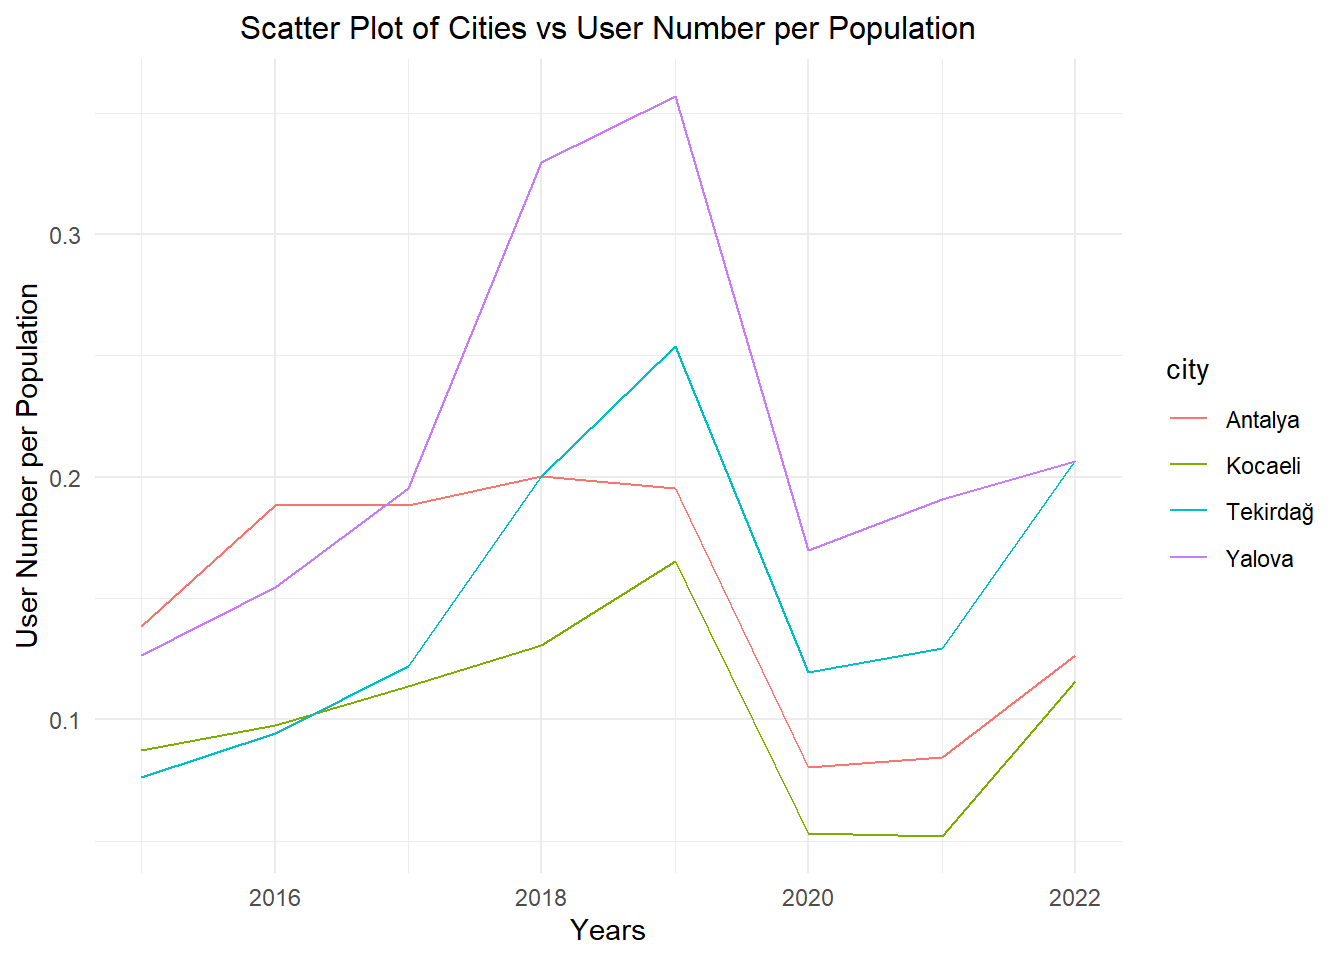
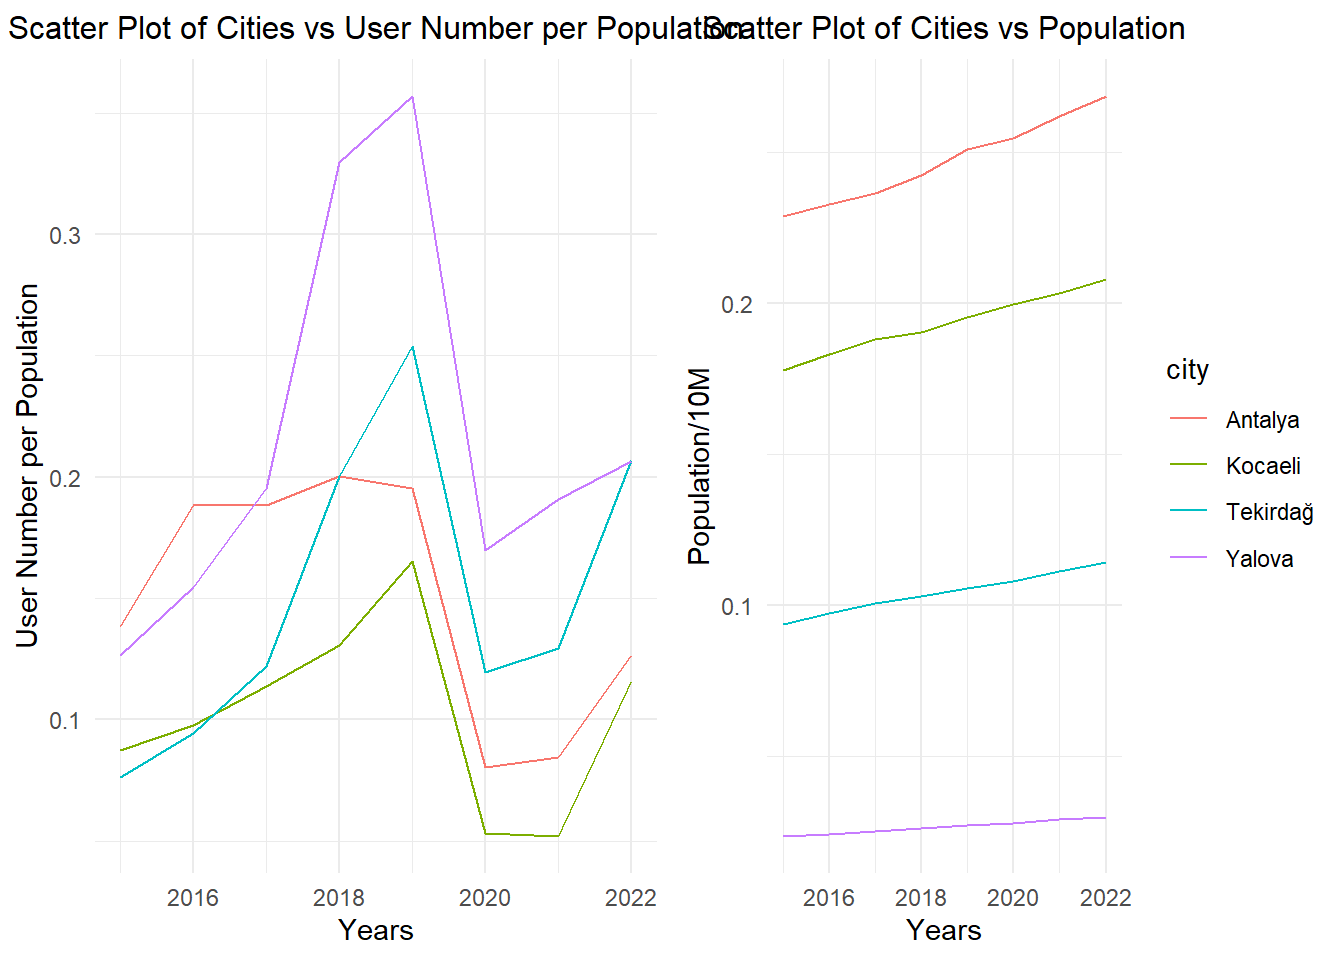
bişiler

diff --git a/docs/analysis.html b/docs/analysis.html
@@ -146,13 +146,14 @@ pre > code.sourceCode > span > a:first-child::before { text-decoration: underlin
     <h2 id="toc-title">On this page</h2>
    
   <ul>
-  <li><a href="#correlation-between-variables" id="toc-correlation-between-variables" class="nav-link active" data-scroll-target="#correlation-between-variables">1) Correlation between variables</a></li>
-  <li><a href="#relationship-between-attributes" id="toc-relationship-between-attributes" class="nav-link" data-scroll-target="#relationship-between-attributes">2) Relationship between attributes</a>
+  <li><a href="#correlation-between-attributes" id="toc-correlation-between-attributes" class="nav-link active" data-scroll-target="#correlation-between-attributes">1) Correlation Between Attributes</a></li>
+  <li><a href="#relationship-between-attributes" id="toc-relationship-between-attributes" class="nav-link" data-scroll-target="#relationship-between-attributes">2) Relationship Between Attributes</a>
   <ul class="collapse">
   <li><a href="#section" id="toc-section" class="nav-link" data-scroll-target="#section">2.1)</a></li>
   <li><a href="#section-1" id="toc-section-1" class="nav-link" data-scroll-target="#section-1">2.2)</a></li>
   <li><a href="#section-2" id="toc-section-2" class="nav-link" data-scroll-target="#section-2">2.3)</a></li>
   <li><a href="#the-number-of-historical-remnants-in-cities-in-turkiye" id="toc-the-number-of-historical-remnants-in-cities-in-turkiye" class="nav-link" data-scroll-target="#the-number-of-historical-remnants-in-cities-in-turkiye">3) The number of historical remnants in cities in Turkiye</a></li>
+  <li><a href="#regional-analysis" id="toc-regional-analysis" class="nav-link" data-scroll-target="#regional-analysis">3) Regional Analysis</a></li>
   </ul></li>
   </ul>
 </nav>
@@ -190,7 +191,8 @@ pre > code.sourceCode > span > a:first-child::before { text-decoration: underlin
 <span id="cb1-4"><a href="#cb1-4" aria-hidden="true" tabindex="-1"></a><span class="fu">library</span>(dplyr)</span>
 <span id="cb1-5"><a href="#cb1-5" aria-hidden="true" tabindex="-1"></a><span class="fu">library</span>(knitr)</span>
 <span id="cb1-6"><a href="#cb1-6" aria-hidden="true" tabindex="-1"></a><span class="fu">library</span>(ggrepel)</span>
-<span id="cb1-7"><a href="#cb1-7" aria-hidden="true" tabindex="-1"></a><span class="fu">library</span>(reshape2)</span></code><button title="Copy to Clipboard" class="code-copy-button"><i class="bi"></i></button></pre></div>
+<span id="cb1-7"><a href="#cb1-7" aria-hidden="true" tabindex="-1"></a><span class="fu">library</span>(reshape2)</span>
+<span id="cb1-8"><a href="#cb1-8" aria-hidden="true" tabindex="-1"></a><span class="fu">library</span>(gridExtra)</span></code><button title="Copy to Clipboard" class="code-copy-button"><i class="bi"></i></button></pre></div>
 </details>
 <p>Load the data:</p>
 <details>
@@ -198,8 +200,8 @@ pre > code.sourceCode > span > a:first-child::before { text-decoration: underlin
 <div class="sourceCode cell-code" id="cb2"><pre class="sourceCode r code-with-copy"><code class="sourceCode r"><span id="cb2-1"><a href="#cb2-1" aria-hidden="true" tabindex="-1"></a><span class="fu">load</span>(<span class="st">"library_museum_updated.RData"</span>)</span>
 <span id="cb2-2"><a href="#cb2-2" aria-hidden="true" tabindex="-1"></a>data <span class="ot">&lt;-</span>library_museum_updated</span></code><button title="Copy to Clipboard" class="code-copy-button"><i class="bi"></i></button></pre></div>
 </details>
-<section id="correlation-between-variables" class="level2">
-<h2 class="anchored" data-anchor-id="correlation-between-variables">1) Correlation between variables</h2>
+<section id="correlation-between-attributes" class="level2">
+<h2 class="anchored" data-anchor-id="correlation-between-attributes">1) Correlation Between Attributes</h2>
 <details>
 <summary>Show the code</summary>
 <div class="sourceCode cell-code" id="cb3"><pre class="sourceCode r code-with-copy"><code class="sourceCode r"><span id="cb3-1"><a href="#cb3-1" aria-hidden="true" tabindex="-1"></a>correlation_matrix <span class="ot">&lt;-</span> <span class="fu">cor</span>(library_museum_updated[, <span class="fu">c</span>(<span class="dv">3</span><span class="sc">:</span><span class="dv">21</span>)], <span class="at">use =</span> <span class="st">"complete.obs"</span>)</span>
@@ -216,7 +218,7 @@ pre > code.sourceCode > span > a:first-child::before { text-decoration: underlin
 <p>In the areas where the squares are dark red, there is a positive correlation between the variables. In cities with a high population, the number of museums, libraries, theater and cinema audience numbers, and the number of suicides are also high. Conversely, when the number of pieces in a museum is high, it is observed that the number of museums, libraries, audience numbers of theaters and cinemas are also high. The variables intersecting in dark blue-purple squares, on the other hand, have a negative correlation. That is, there is an inverse relationship between the proportion of the young population and the literacy rate.</p>
 </section>
 <section id="relationship-between-attributes" class="level2">
-<h2 class="anchored" data-anchor-id="relationship-between-attributes">2) Relationship between attributes</h2>
+<h2 class="anchored" data-anchor-id="relationship-between-attributes">2) Relationship Between Attributes</h2>
 <section id="section" class="level3">
 <h3 class="anchored" data-anchor-id="section">2.1)</h3>
 <div class="cell">
@@ -404,14 +406,23 @@ pre > code.sourceCode > span > a:first-child::before { text-decoration: underlin
 <div class="cell">
 <details>
 <summary>Show the code</summary>
-<div class="sourceCode cell-code" id="cb17"><pre class="sourceCode r code-with-copy"><code class="sourceCode r"><span id="cb17-1"><a href="#cb17-1" aria-hidden="true" tabindex="-1"></a>data <span class="sc">%&gt;%</span> </span>
+<div class="sourceCode cell-code" id="cb17"><pre class="sourceCode r code-with-copy"><code class="sourceCode r"><span id="cb17-1"><a href="#cb17-1" aria-hidden="true" tabindex="-1"></a>p1 <span class="ot">&lt;-</span> data <span class="sc">%&gt;%</span> </span>
 <span id="cb17-2"><a href="#cb17-2" aria-hidden="true" tabindex="-1"></a>  <span class="fu">filter</span>(city <span class="sc">%in%</span> <span class="fu">c</span>(<span class="st">"Yalova"</span>,<span class="st">"Tekirdağ"</span>,<span class="st">"Antalya"</span>,<span class="st">"Kocaeli"</span>)) <span class="sc">%&gt;%</span> <span class="fu">mutate</span>(<span class="at">user_num_per_pop=</span>(user_num<span class="sc">/</span>population)) <span class="sc">%&gt;%</span></span>
 <span id="cb17-3"><a href="#cb17-3" aria-hidden="true" tabindex="-1"></a>  <span class="fu">ggplot</span>(<span class="fu">aes</span>(<span class="at">x =</span> year, <span class="at">y =</span> user_num_per_pop, <span class="at">color =</span> city)) <span class="sc">+</span></span>
 <span id="cb17-4"><a href="#cb17-4" aria-hidden="true" tabindex="-1"></a>  <span class="fu">geom_line</span>() <span class="sc">+</span>  </span>
 <span id="cb17-5"><a href="#cb17-5" aria-hidden="true" tabindex="-1"></a>  <span class="fu">labs</span>(<span class="at">x =</span> <span class="st">"Years"</span>, <span class="at">y =</span> <span class="st">"User Number per Population"</span>) <span class="sc">+</span> </span>
 <span id="cb17-6"><a href="#cb17-6" aria-hidden="true" tabindex="-1"></a>  <span class="fu">ggtitle</span>(<span class="st">"Scatter Plot of Cities vs User Number per Population"</span>) <span class="sc">+</span></span>
 <span id="cb17-7"><a href="#cb17-7" aria-hidden="true" tabindex="-1"></a>  <span class="fu">theme_minimal</span>() <span class="sc">+</span></span>
-<span id="cb17-8"><a href="#cb17-8" aria-hidden="true" tabindex="-1"></a>  <span class="fu">theme</span>(<span class="at">plot.title =</span> <span class="fu">element_text</span>(<span class="at">size =</span> <span class="dv">12</span>, <span class="at">hjust =</span> <span class="fl">0.5</span>))</span></code><button title="Copy to Clipboard" class="code-copy-button"><i class="bi"></i></button></pre></div>
+<span id="cb17-8"><a href="#cb17-8" aria-hidden="true" tabindex="-1"></a>  <span class="fu">theme</span>(<span class="at">plot.title =</span> <span class="fu">element_text</span>(<span class="at">size =</span> <span class="dv">12</span>, <span class="at">hjust =</span> <span class="fl">0.5</span>),<span class="at">legend.position =</span> <span class="st">"none"</span>) </span>
+<span id="cb17-9"><a href="#cb17-9" aria-hidden="true" tabindex="-1"></a>p2 <span class="ot">&lt;-</span> data <span class="sc">%&gt;%</span> </span>
+<span id="cb17-10"><a href="#cb17-10" aria-hidden="true" tabindex="-1"></a>  <span class="fu">filter</span>(city <span class="sc">%in%</span> <span class="fu">c</span>(<span class="st">"Yalova"</span>,<span class="st">"Tekirdağ"</span>,<span class="st">"Antalya"</span>,<span class="st">"Kocaeli"</span>)) <span class="sc">%&gt;%</span></span>
+<span id="cb17-11"><a href="#cb17-11" aria-hidden="true" tabindex="-1"></a>  <span class="fu">ggplot</span>(<span class="fu">aes</span>(<span class="at">x =</span> year, <span class="at">y =</span> population<span class="sc">/</span><span class="dv">10000000</span>, <span class="at">color =</span> city)) <span class="sc">+</span></span>
+<span id="cb17-12"><a href="#cb17-12" aria-hidden="true" tabindex="-1"></a>  <span class="fu">geom_line</span>() <span class="sc">+</span>  </span>
+<span id="cb17-13"><a href="#cb17-13" aria-hidden="true" tabindex="-1"></a>  <span class="fu">labs</span>(<span class="at">x =</span> <span class="st">"Years"</span>, <span class="at">y =</span> <span class="st">"Population/10M"</span>) <span class="sc">+</span> </span>
+<span id="cb17-14"><a href="#cb17-14" aria-hidden="true" tabindex="-1"></a>  <span class="fu">ggtitle</span>(<span class="st">"Scatter Plot of Cities vs Population"</span>) <span class="sc">+</span></span>
+<span id="cb17-15"><a href="#cb17-15" aria-hidden="true" tabindex="-1"></a>  <span class="fu">theme_minimal</span>() <span class="sc">+</span></span>
+<span id="cb17-16"><a href="#cb17-16" aria-hidden="true" tabindex="-1"></a>  <span class="fu">theme</span>(<span class="at">plot.title =</span> <span class="fu">element_text</span>(<span class="at">size =</span> <span class="dv">12</span>, <span class="at">hjust =</span> <span class="fl">0.5</span>))</span>
+<span id="cb17-17"><a href="#cb17-17" aria-hidden="true" tabindex="-1"></a><span class="fu">grid.arrange</span>(p1, p2, <span class="at">ncol =</span> <span class="dv">2</span>)</span></code><button title="Copy to Clipboard" class="code-copy-button"><i class="bi"></i></button></pre></div>
 </details>
 <div class="cell-output-display">
 <p><img src="analysis_files/figure-html/unnamed-chunk-14-1.png" class="img-fluid" width="672"></p>
@@ -539,6 +550,44 @@ pre > code.sourceCode > span > a:first-child::before { text-decoration: underlin
 <div class="cell-output-display">
 <p><img src="analysis_files/figure-html/unnamed-chunk-18-1.png" class="img-fluid" width="672"></p>
 </div>
+</div>
+</section>
+<section id="regional-analysis" class="level3">
+<h3 class="anchored" data-anchor-id="regional-analysis">3) Regional Analysis</h3>
+<p>For regional analysis, ‘region’ column will first be added to the data.</p>
+<div class="cell">
+<details>
+<summary>Show the code</summary>
+<div class="sourceCode cell-code" id="cb22"><pre class="sourceCode r code-with-copy"><code class="sourceCode r"><span id="cb22-1"><a href="#cb22-1" aria-hidden="true" tabindex="-1"></a>akdeniz <span class="ot">&lt;-</span> <span class="fu">c</span>(<span class="st">"Antalya"</span>, <span class="st">"Burdur"</span>, <span class="st">"Isparta"</span>, <span class="st">"Mersin"</span>, <span class="st">"Adana"</span>, <span class="st">"Hatay"</span>, <span class="st">"Osmaniye"</span>, <span class="st">"Kahramanmaraş"</span>)</span>
+<span id="cb22-2"><a href="#cb22-2" aria-hidden="true" tabindex="-1"></a>dogu_anadolu <span class="ot">&lt;-</span> <span class="fu">c</span>(<span class="st">"Malatya"</span>, <span class="st">"Erzincan"</span>, <span class="st">"Elazığ"</span>, <span class="st">"Tunceli"</span>, <span class="st">"Bingöl"</span>, <span class="st">"Erzurum"</span>, <span class="st">"Muş"</span>, <span class="st">"Bitlis"</span>, <span class="st">"Şırnak"</span>, <span class="st">"Kars"</span>, <span class="st">"Ağrı"</span>, <span class="st">"Ardahan"</span>, <span class="st">"Van"</span>, <span class="st">"Iğdır"</span>, <span class="st">"Hakkari"</span>)</span>
+<span id="cb22-3"><a href="#cb22-3" aria-hidden="true" tabindex="-1"></a>ege <span class="ot">&lt;-</span> <span class="fu">c</span>(<span class="st">"İzmir"</span>, <span class="st">"Aydın"</span>, <span class="st">"Muğla"</span>, <span class="st">"Manisa"</span>, <span class="st">"Denizli"</span>, <span class="st">"Uşak"</span>, <span class="st">"Kütahya"</span>, <span class="st">"Afyon"</span>)</span>
+<span id="cb22-4"><a href="#cb22-4" aria-hidden="true" tabindex="-1"></a>guneydogu_anadolu <span class="ot">&lt;-</span> <span class="fu">c</span>(<span class="st">"Gaziantep"</span>, <span class="st">"Kilis"</span>, <span class="st">"Adıyaman"</span>, <span class="st">"Şanlıurfa"</span>, <span class="st">"Diyarbakır"</span>, <span class="st">"Mardin"</span>, <span class="st">"Batman"</span>, <span class="st">"Siirt"</span>)</span>
+<span id="cb22-5"><a href="#cb22-5" aria-hidden="true" tabindex="-1"></a>ic_anadolu <span class="ot">&lt;-</span> <span class="fu">c</span>(<span class="st">"Eskişehir"</span>, <span class="st">"Konya"</span>, <span class="st">"Ankara"</span>, <span class="st">"Çankırı"</span>, <span class="st">"Aksaray"</span>, <span class="st">"Kırıkkale"</span>, <span class="st">"Kırşehir"</span>, <span class="st">"Yozgat"</span>, <span class="st">"Niğde"</span>, <span class="st">"Nevşehir"</span>, <span class="st">"Kayseri"</span>, <span class="st">"Karaman"</span>, <span class="st">"Sivas"</span>)</span>
+<span id="cb22-6"><a href="#cb22-6" aria-hidden="true" tabindex="-1"></a>karadeniz <span class="ot">&lt;-</span> <span class="fu">c</span>(<span class="st">"Bolu"</span>, <span class="st">"Düzce"</span>, <span class="st">"Zonguldak"</span>, <span class="st">"Karabük"</span>, <span class="st">"Bartın"</span>, <span class="st">"Kastamonu"</span>, <span class="st">"Çorum"</span>, <span class="st">"Sinop"</span>, <span class="st">"Samsun"</span>, <span class="st">"Amasya"</span>, <span class="st">"Tokat"</span>, <span class="st">"Ordu"</span>, <span class="st">"Giresun"</span>, <span class="st">"Gümüşhane"</span>, <span class="st">"Trabzon"</span>, <span class="st">"Bayburt"</span>, <span class="st">"Rize"</span>, <span class="st">"Artvin"</span>)</span>
+<span id="cb22-7"><a href="#cb22-7" aria-hidden="true" tabindex="-1"></a>marmara <span class="ot">&lt;-</span> <span class="fu">c</span>(<span class="st">"Çanakkale"</span>, <span class="st">"Balıkesir"</span>, <span class="st">"Edirne"</span>, <span class="st">"Tekirdağ"</span>, <span class="st">"Kırklareli"</span>, <span class="st">"İstanbul"</span>, <span class="st">"Bursa"</span>, <span class="st">"Yalova"</span>, <span class="st">"Kocaeli"</span>, <span class="st">"Bilecik"</span>, <span class="st">"Sakarya"</span>)</span>
+<span id="cb22-8"><a href="#cb22-8" aria-hidden="true" tabindex="-1"></a></span>
+<span id="cb22-9"><a href="#cb22-9" aria-hidden="true" tabindex="-1"></a>assign_region <span class="ot">&lt;-</span> <span class="cf">function</span>(city) {</span>
+<span id="cb22-10"><a href="#cb22-10" aria-hidden="true" tabindex="-1"></a>  <span class="cf">if</span> (city <span class="sc">%in%</span> akdeniz) {</span>
+<span id="cb22-11"><a href="#cb22-11" aria-hidden="true" tabindex="-1"></a>    <span class="fu">return</span>(<span class="st">"Akdeniz"</span>)</span>
+<span id="cb22-12"><a href="#cb22-12" aria-hidden="true" tabindex="-1"></a>  } <span class="cf">else</span> <span class="cf">if</span> (city <span class="sc">%in%</span> dogu_anadolu) {</span>
+<span id="cb22-13"><a href="#cb22-13" aria-hidden="true" tabindex="-1"></a>    <span class="fu">return</span>(<span class="st">"Doğu Anadolu"</span>)</span>
+<span id="cb22-14"><a href="#cb22-14" aria-hidden="true" tabindex="-1"></a>  } <span class="cf">else</span> <span class="cf">if</span> (city <span class="sc">%in%</span> ege) {</span>
+<span id="cb22-15"><a href="#cb22-15" aria-hidden="true" tabindex="-1"></a>    <span class="fu">return</span>(<span class="st">"Ege"</span>)</span>
+<span id="cb22-16"><a href="#cb22-16" aria-hidden="true" tabindex="-1"></a>  } <span class="cf">else</span> <span class="cf">if</span> (city <span class="sc">%in%</span> guneydogu_anadolu) {</span>
+<span id="cb22-17"><a href="#cb22-17" aria-hidden="true" tabindex="-1"></a>    <span class="fu">return</span>(<span class="st">"Güneydoğu Anadolu"</span>)</span>
+<span id="cb22-18"><a href="#cb22-18" aria-hidden="true" tabindex="-1"></a>  } <span class="cf">else</span> <span class="cf">if</span> (city <span class="sc">%in%</span> ic_anadolu) {</span>
+<span id="cb22-19"><a href="#cb22-19" aria-hidden="true" tabindex="-1"></a>    <span class="fu">return</span>(<span class="st">"İç Anadolu"</span>)</span>
+<span id="cb22-20"><a href="#cb22-20" aria-hidden="true" tabindex="-1"></a>  } <span class="cf">else</span> <span class="cf">if</span> (city <span class="sc">%in%</span> karadeniz) {</span>
+<span id="cb22-21"><a href="#cb22-21" aria-hidden="true" tabindex="-1"></a>    <span class="fu">return</span>(<span class="st">"Karadeniz"</span>)</span>
+<span id="cb22-22"><a href="#cb22-22" aria-hidden="true" tabindex="-1"></a>  } <span class="cf">else</span> <span class="cf">if</span> (city <span class="sc">%in%</span> marmara) {</span>
+<span id="cb22-23"><a href="#cb22-23" aria-hidden="true" tabindex="-1"></a>    <span class="fu">return</span>(<span class="st">"Marmara"</span>)</span>
+<span id="cb22-24"><a href="#cb22-24" aria-hidden="true" tabindex="-1"></a>  } <span class="cf">else</span> {</span>
+<span id="cb22-25"><a href="#cb22-25" aria-hidden="true" tabindex="-1"></a>    <span class="fu">return</span>(<span class="cn">NA</span>)</span>
+<span id="cb22-26"><a href="#cb22-26" aria-hidden="true" tabindex="-1"></a>  }</span>
+<span id="cb22-27"><a href="#cb22-27" aria-hidden="true" tabindex="-1"></a>}</span>
+<span id="cb22-28"><a href="#cb22-28" aria-hidden="true" tabindex="-1"></a></span>
+<span id="cb22-29"><a href="#cb22-29" aria-hidden="true" tabindex="-1"></a>library_museum_updated <span class="ot">&lt;-</span> library_museum_updated <span class="sc">%&gt;%</span> <span class="fu">mutate</span>(<span class="at">region =</span> <span class="fu">sapply</span>(city, assign_region)) <span class="sc">%&gt;%</span> <span class="fu">relocate</span>(region,<span class="at">.after =</span> city)</span></code><button title="Copy to Clipboard" class="code-copy-button"><i class="bi"></i></button></pre></div>
+</details>
 </div>
 
 
